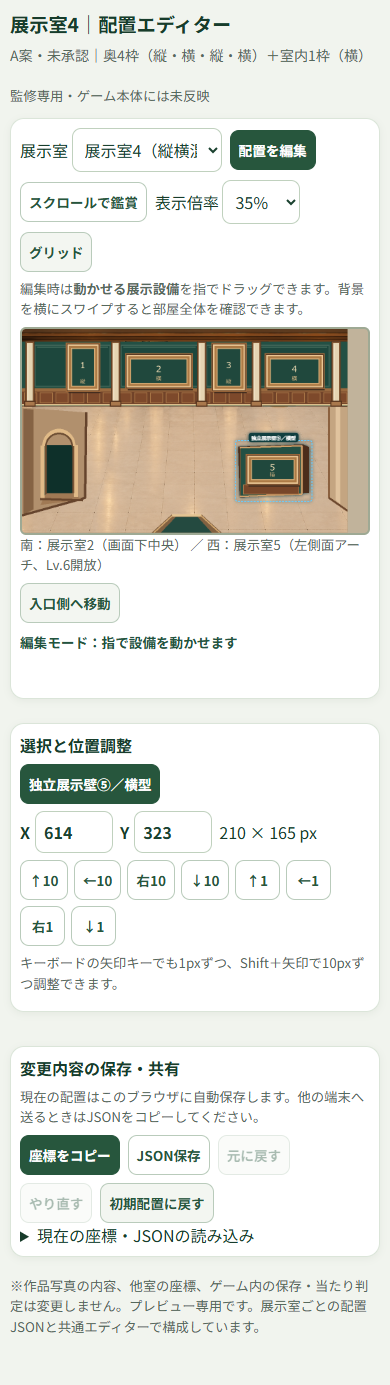
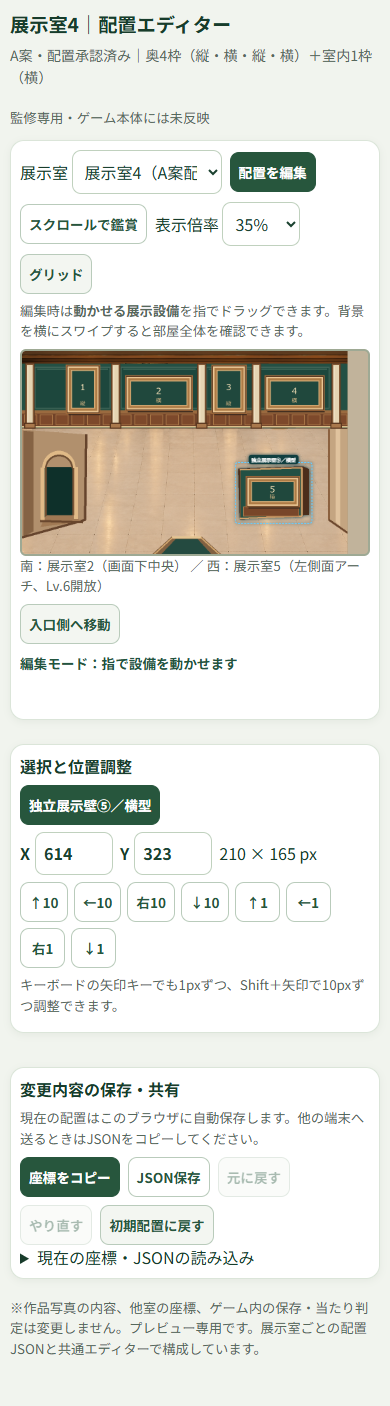
feat(a18): approve gallery4 A and keep sculpture decoration optional

diff --git a/qa/gallery4_decor_option.py b/qa/gallery4_decor_option.py
@@ -1,0 +1,28 @@
+"""Gallery 4 optional decor visual comparison; never changes approved A architecture/frames."""
+from pathlib import Path
+from PIL import Image,ImageDraw,ImageFont
+import hashlib
+root=Path(__file__).resolve().parents[1]
+room=root/"rooms/gallery4"
+base=room/"gallery4_concept_A.png"
+original=base.read_bytes()
+h=hashlib.sha256(original).hexdigest()
+scene=Image.open(base).convert("RGBA")
+assert scene.size==(930,582)
+# Optional asset is preserved locally so a clean checkout can regenerate the comparison.
+# It was cropped from existing A18 QA statue art; never treated as final-quality art.
+sculpture=Image.open(room/"gallery4_optional_sculpture.png").convert("RGBA")
+assert sculpture.size==(100,153)
+bbox=sculpture.getchannel("A").getbbox()
+assert bbox and bbox[2]-bbox[0]>30
+scene.alpha_composite(sculpture,(350,323))
+scene.convert("RGB").save(room/"gallery4_A_optional_sculpture_preview.png")
+compare=Image.new("RGB",(1904,648),"#f3efe6")
+for i,im in enumerate([Image.open(base).convert("RGB"),scene.convert("RGB")]):compare.paste(im,(12+i*950,50))
+d=ImageDraw.Draw(compare)
+font=ImageFont.truetype(r"C:\Windows\Fonts\meiryo.ttc",21)
+d.text((12,12),"A案：確定した建築と展示枠のみ",font=font,fill="#294c3d")
+d.text((962,12),"装飾候補：小さな彫像を追加（未承認）",font=font,fill="#294c3d")
+compare.save(room/"gallery4_A_decoration_comparison.png")
+assert hashlib.sha256(base.read_bytes()).hexdigest()==h
+print("PASS decoration comparison; approved A unchanged; optional sculpture crop",bbox)

diff --git a/qa/check_gallery4_live.py b/qa/check_gallery4_live.py
@@ -8,6 +8,8 @@ import json
 root=Path(__file__).resolve().parents[1]
 room=json.loads((root/'rooms/gallery4/room.json').read_text(encoding='utf-8'))
 assert room['id']=='gallery4'
+assert room['layoutRevision']=='gallery4-A-visual-layout-approved-20261029'
+assert 'approved' in room['status']
 assert room['entrance'].startswith('南') and room['exit'].startswith('西')
 assert len(room['objects'])==1 and room['objects'][0]['id']=='wall5'
 shapes=room['proposedFixtureShapes']

diff --git a/rooms/gallery4/LAYOUT_APPROVAL_20261029.md b/rooms/gallery4/LAYOUT_APPROVAL_20261029.md
@@ -1,0 +1,19 @@
+# A18 展示室4 A案の承認記録（2026-10-29）
+
+## 採用したレイアウト
+- ユーザーは2026-10-29に展示室4のA案を承認。
+- 奥壁4枠（①縦②横③縦④横）＋独立壁⑤横、計5枠。B案は比較用として保存。
+- 独立展示壁⑤の座標は (614,323,210,165) のまま。
+- 南入口：展示室2、西出口：展示室5。roomId=gallery4を維持。
+- 正本のラフ画像：gallery4_concept_A.png。背景と独立壁もA案を維持。
+
+## 家具・装飾はまだ候補
+- カウンター台を他室と重複させず、空間を活用する意向。
+- 既存素材の彫像を左寄りに置いた比較プレビューを別途作成したが、正式には未承認。
+- 素材は assets-qa/props/statue_bust.png を試しに使ったもので、完成素材ではない。
+- この彫像は作品6枠目ではない。A案の正式な5枠には一切追加していない。
+
+## 未実装事項
+- 「縦型限定・横型限定」の厳密な展示制約は現行ゲームに未実装、今回の承認は形状・配置に限る。
+- スタッフ、衝突、通行、奥行きレイヤーは別工程で検証する。
+- プレビューとゲーム本体は独立。issue/mainやゲームへの無断統合はしない。
